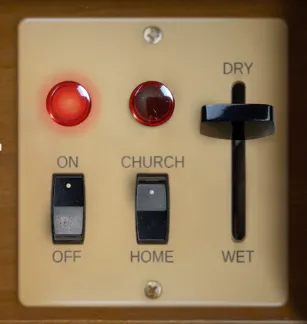
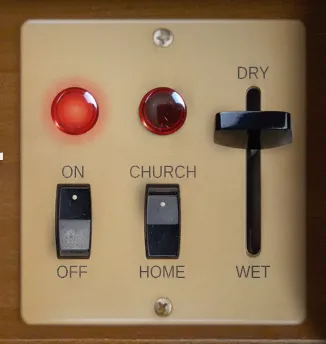
Update docs images

diff --git a/docs/index.html b/docs/index.html
@@ -997,7 +997,7 @@ footer img {
         "width": 1200,
         "height": 662
       },
-      "dateModified": "2026-09-17"
+      "dateModified": "2026-11-20"
     },
     {
       "@type": "BreadcrumbList",
@@ -1209,7 +1209,7 @@ footer img {
 <div class="layout">
   <nav class="toc" aria-labelledby="toc-title">
     <p class="toc-title" id="toc-title">On this page</p>
-    <ul><li><a href="#at-a-glance">At a glance</a></li><li><a href="#demo-video">Video</a></li><li><a href="#included-formats">Included formats</a></li><li><a href="#the-plugin-version">The plugin version</a></li><li><a href="#the-decent-sampler-version">The Decent Sampler version</a></li><li><a href="#technical-specification">Technical specification</a></li><li><a href="#instrument-presets">Instrument presets</a></li><li><a href="#user-interface">User Interface</a><ul><li><a href="#wind-and-reed-settings">Wind and reed settings</a></li><li><a href="#tremulant">Tremulant</a></li><li><a href="#noise">Noise</a></li><li><a href="#reverb">Reverb</a></li></ul></li><li><a href="#air-supply-plugin-version-only">Air supply (plugin version only)</a></li><li><a href="#faq">Frequently asked questions</a></li><li><a href="#release-notes">Release notes</a></li><li><a href="#about-this-repository">About this repository</a></li></ul>
+    <ul><li><a href="#at-a-glance">At a glance</a></li><li><a href="#demo-video">Video</a></li><li><a href="#included-formats">Included formats</a></li><li><a href="#the-plugin-version">The plugin version</a></li><li><a href="#the-decent-sampler-version">The Decent Sampler version</a></li><li><a href="#technical-specification">Technical specification</a></li><li><a href="#instrument-presets">Instrument presets</a></li><li><a href="#user-interface">User Interface</a><ul><li><a href="#wind-and-reed-settings">Wind and reed settings</a></li><li><a href="#tremulant">Tremulant</a></li><li><a href="#noise">Noise</a></li><li><a href="#reverb">Reverb</a></li></ul></li><li><a href="#air-supply-plugin-version-only">Air supply (plugin version only)</a></li><li><a href="#key-pressure-plugin-version-only">Key pressure (plugin version only)</a></li><li><a href="#faq">Frequently asked questions</a></li><li><a href="#release-notes">Release notes</a></li><li><a href="#about-this-repository">About this repository</a></li></ul>
   </nav>
   <main id="content">
 <section id="at-a-glance"><h2><a class="anchor" href="#at-a-glance" aria-hidden="true" tabindex="-1">#</a>At a glance</h2><dl class="specs"><dt>Plugin</dt><dd>VST3, AU and Standalone for macOS</dd><dt>Decent Sampler</dt><dd>macOS, Windows and Linux</dd><dt>Version</dt><dd>2.1.0 (2026-08-01)</dd><dt>Price</dt><dd>Pay what you want, from $9.99</dd><dt>Sample rate</dt><dd>48 kHz</dd><dt>Bit depth</dt><dd>24 bit</dd><dt>Samples</dt><dd>549 files</dd><dt>Sample content</dt><dd>919.2 MB</dd></dl></section>
@@ -1233,7 +1233,7 @@ footer img {
 <section id="instrument-presets"><h2><a class="anchor" href="#instrument-presets" aria-hidden="true" tabindex="-1">#</a>Instrument presets</h2><p>This instrument includes 2 presets, the regular preset "ElektriskSalmesykkel" (best in most cases) and the looped preset "ElektriskSalmesykkel (Looped)". For the regular version, each sample are approximately 16 seconds long. For the looped version, to achieve the best possible loop point, some of the loops are short and some are longer. Some of the loops will however have some minor artifacts. For best audio quality, you should always use the regular version. And only if you have notes held for more than 16 seconds, use the the looped version.</p></section>
 <section id="user-interface"><h2><a class="anchor" href="#user-interface" aria-hidden="true" tabindex="-1">#</a>User Interface</h2><p>Controls are grouped by what they act on: the wind supply, the reeds, the tremulant, mechanical noise and reverb.</p>
 <h3 id="wind-and-reed-settings"><a class="anchor" href="#wind-and-reed-settings" aria-hidden="true" tabindex="-1">#</a>Wind and reed settings</h3>
-<figure class="shot shot-narrow"><a href="img/screenshots-mixer.webp" target="_blank" rel="noopener"><img src="img/screenshots-mixer.webp" alt="Wind and reed controls" loading="lazy" width="330" height="324"></a><figcaption>Wind and reed controls</figcaption></figure>
+<figure class="shot shot-narrow"><a href="img/screenshots-mixer.webp" target="_blank" rel="noopener"><img src="img/screenshots-mixer.webp" alt="Wind and reed controls" loading="lazy" width="348" height="340"></a><figcaption>Wind and reed controls</figcaption></figure>
 <ul>
 <li>Normal / Full (Swell)<ul>
 <li>Controlled by a knee lever on the original instrument and with the modulation wheel in the plugin</li>
@@ -1249,7 +1249,7 @@ footer img {
 </ul></li>
 </ul>
 <h3 id="tremulant"><a class="anchor" href="#tremulant" aria-hidden="true" tabindex="-1">#</a>Tremulant</h3>
-<figure class="shot shot-narrow"><a href="img/screenshots-tremulant.webp" target="_blank" rel="noopener"><img src="img/screenshots-tremulant.webp" alt="Controls for the vibrato settings" loading="lazy" width="220" height="324"></a><figcaption>Controls for the tremulant settings</figcaption></figure>
+<figure class="shot shot-narrow"><a href="img/screenshots-tremulant.webp" target="_blank" rel="noopener"><img src="img/screenshots-tremulant.webp" alt="Controls for the vibrato settings" loading="lazy" width="232" height="340"></a><figcaption>Controls for the tremulant settings</figcaption></figure>
 <p>Tremulant varies the wind supply to the reeds. The controls enable you to adjust the tremulant with the desired depth and rate.</p>
 <ul>
 <li>Normal / Tremulant (Depth)<ul>
@@ -1260,14 +1260,14 @@ footer img {
 </ul></li>
 </ul>
 <h3 id="noise"><a class="anchor" href="#noise" aria-hidden="true" tabindex="-1">#</a>Noise</h3>
-<figure class="shot shot-narrow"><a href="img/screenshots-noise.webp" target="_blank" rel="noopener"><img src="img/screenshots-noise.webp" alt="Noise controls" loading="lazy" width="134" height="323"></a><figcaption>Noise controls</figcaption></figure>
+<figure class="shot shot-narrow"><a href="img/screenshots-noise.webp" target="_blank" rel="noopener"><img src="img/screenshots-noise.webp" alt="Noise controls" loading="lazy" width="142" height="340"></a><figcaption>Noise controls</figcaption></figure>
 <ul>
 <li>Silent / Noisy<ul>
 <li>The amount of mechanical noise from the keys when pressed down and released</li>
 </ul></li>
 </ul>
 <h3 id="reverb"><a class="anchor" href="#reverb" aria-hidden="true" tabindex="-1">#</a>Reverb</h3>
-<figure class="shot shot-narrow"><a href="img/screenshots-reverb.webp" target="_blank" rel="noopener"><img src="img/screenshots-reverb.webp" alt="Controls for the room reverb impulse response" loading="lazy" width="307" height="324"></a><figcaption>Controls for the room reverb impulse response</figcaption></figure>
+<figure class="shot shot-narrow"><a href="img/screenshots-reverb.webp" target="_blank" rel="noopener"><img src="img/screenshots-reverb.webp" alt="Controls for the room reverb impulse response" loading="lazy" width="326" height="344"></a><figcaption>Controls for the room reverb impulse response</figcaption></figure>
 <p>Both reverbs are impulse responses of a Chase Bliss Audio &amp; Meris CXM 1978 pedal: a short one for a small room (home) and a long one for a church.</p>
 <ul>
 <li>On / Off<ul>
@@ -1280,7 +1280,7 @@ footer img {
 <li>Mix between direct signal (dry) and reverb signal (wet)</li>
 </ul></li>
 </ul></section>
-<section id="air-supply-plugin-version-only"><h2><a class="anchor" href="#air-supply-plugin-version-only" aria-hidden="true" tabindex="-1">#</a>Air supply (plugin version only)</h2><figure class="shot"><a href="img/screenshots-air-supply.webp" target="_blank" rel="noopener"><img src="img/screenshots-air-supply.webp" alt="Toggle for air supply emulation in the settings menu" loading="lazy" width="926" height="574"></a><figcaption>Toggle for air supply emulation in the settings menu</figcaption></figure>
+<section id="air-supply-plugin-version-only"><h2><a class="anchor" href="#air-supply-plugin-version-only" aria-hidden="true" tabindex="-1">#</a>Air supply (plugin version only)</h2><figure class="shot"><a href="img/screenshots-air-supply.webp" target="_blank" rel="noopener"><img src="img/screenshots-air-supply.webp" alt="Toggle for air supply emulation in the settings menu" loading="lazy" width="926" height="694"></a><figcaption>Toggle for air supply emulation in the settings menu</figcaption></figure>
 <p>The original Yamaha L-20D has a motor driven fan that supplies air to all the reeds. When many notes are played at once, each reed gets a smaller share of the air. The plugin emulates this behavior: the more notes you hold, the lower the volume, the softer the top end and the slower the attack of each note. The air recovers quickly when notes are released, just like the real blower. The emulation only affects the reed samples, not the mechanical key noises, and it can be turned on or off in the settings menu.</p></section>
 <section id="faq"><h2><a class="anchor" href="#faq" aria-hidden="true" tabindex="-1">#</a>Frequently asked questions</h2><div class="faq"><details class="faq-item"><summary>What is Elektrisk Salmesykkel?</summary><div class="body"><p>Elektrisk Salmesykkel: a Yamaha L-20D electric harmonium with tremulant, noise and reverb, and an air supply that sags as more notes are held.</p></div></details><details class="faq-item"><summary>Which formats does Elektrisk Salmesykkel come in?</summary><div class="body"><p>Elektrisk Salmesykkel is available as VST3, AU and Standalone for macOS, and as a Decent Sampler library for macOS, Windows and Linux.</p></div></details><details class="faq-item"><summary>Does Elektrisk Salmesykkel run on Windows or Linux?</summary><div class="body"><p>The plugin version is released for macOS only. On Windows and Linux, the Decent Sampler version of Elektrisk Salmesykkel covers the same instrument.</p></div></details><details class="faq-item"><summary>Does Elektrisk Salmesykkel work in Logic Pro and Ableton Live?</summary><div class="body"><p>Yes. Elektrisk Salmesykkel is available as both VST3 and AU, so it loads in any macOS host that reads those formats, including Logic Pro, Ableton Live, Cubase, Reaper and Studio One.</p></div></details><details class="faq-item"><summary>Do I need Decent Sampler to use Elektrisk Salmesykkel?</summary><div class="body"><p>Not for the plugin version. It is a self-contained instrument with its samples embedded, so there are no external files to install or locate. The Decent Sampler version is a sample library, and that one needs the free Decent Sampler application.</p></div></details><details class="faq-item"><summary>What sample rate and bit depth is Elektrisk Salmesykkel recorded at?</summary><div class="body"><p>The samples are 48 kHz, 24 bit.</p></div></details><details class="faq-item"><summary>How many samples does Elektrisk Salmesykkel contain?</summary><div class="body"><p>549 sample files, 919.2 MB of audio. Impulse responses for the effects are not counted in that figure.</p></div></details><details class="faq-item"><summary>How much does Elektrisk Salmesykkel cost?</summary><div class="body"><p>Elektrisk Salmesykkel is pay what you want, from $9.99, so the price shown is the minimum rather than a fixed one.</p></div></details><details class="faq-item"><summary>Where can I download Elektrisk Salmesykkel?</summary><div class="body"><p>From the Dehli Musikk store at <a href="https://store.dehlimusikk.no/l/elektrisk-salmesykkel" target="_blank" rel="noopener">https://store.dehlimusikk.no/l/elektrisk-salmesykkel</a>.</p></div></details><details class="faq-item"><summary>Is the source code for Elektrisk Salmesykkel available?</summary><div class="body"><p>Yes. The repository is public at <a href="https://github.com/benjamindehli/ElektriskSalmesykkel" target="_blank" rel="noopener">https://github.com/benjamindehli/ElektriskSalmesykkel</a> and licensed under GPL-3.0. The audio files are not in the repository, because the samples are a paid product.</p></div></details></div></section>
 <section id="release-notes"><h2><a class="anchor" href="#release-notes" aria-hidden="true" tabindex="-1">#</a>Release notes</h2><details class="release" open><summary>Version 2.1.0<span class="date">2026-08-01</span></summary><div class="body"><p>The changes in this release apply to the plugin version only. The DecentSampler version is unchanged.</p>

diff --git a/docs/video/index.html b/docs/video/index.html
@@ -961,7 +961,7 @@ footer img {
       "mainEntity": {
         "@id": "https://benjamindehli.github.io/ElektriskSalmesykkel/video/#video"
       },
-      "dateModified": "2026-09-17"
+      "dateModified": "2026-11-20"
     },
     {
       "@type": "BreadcrumbList",
